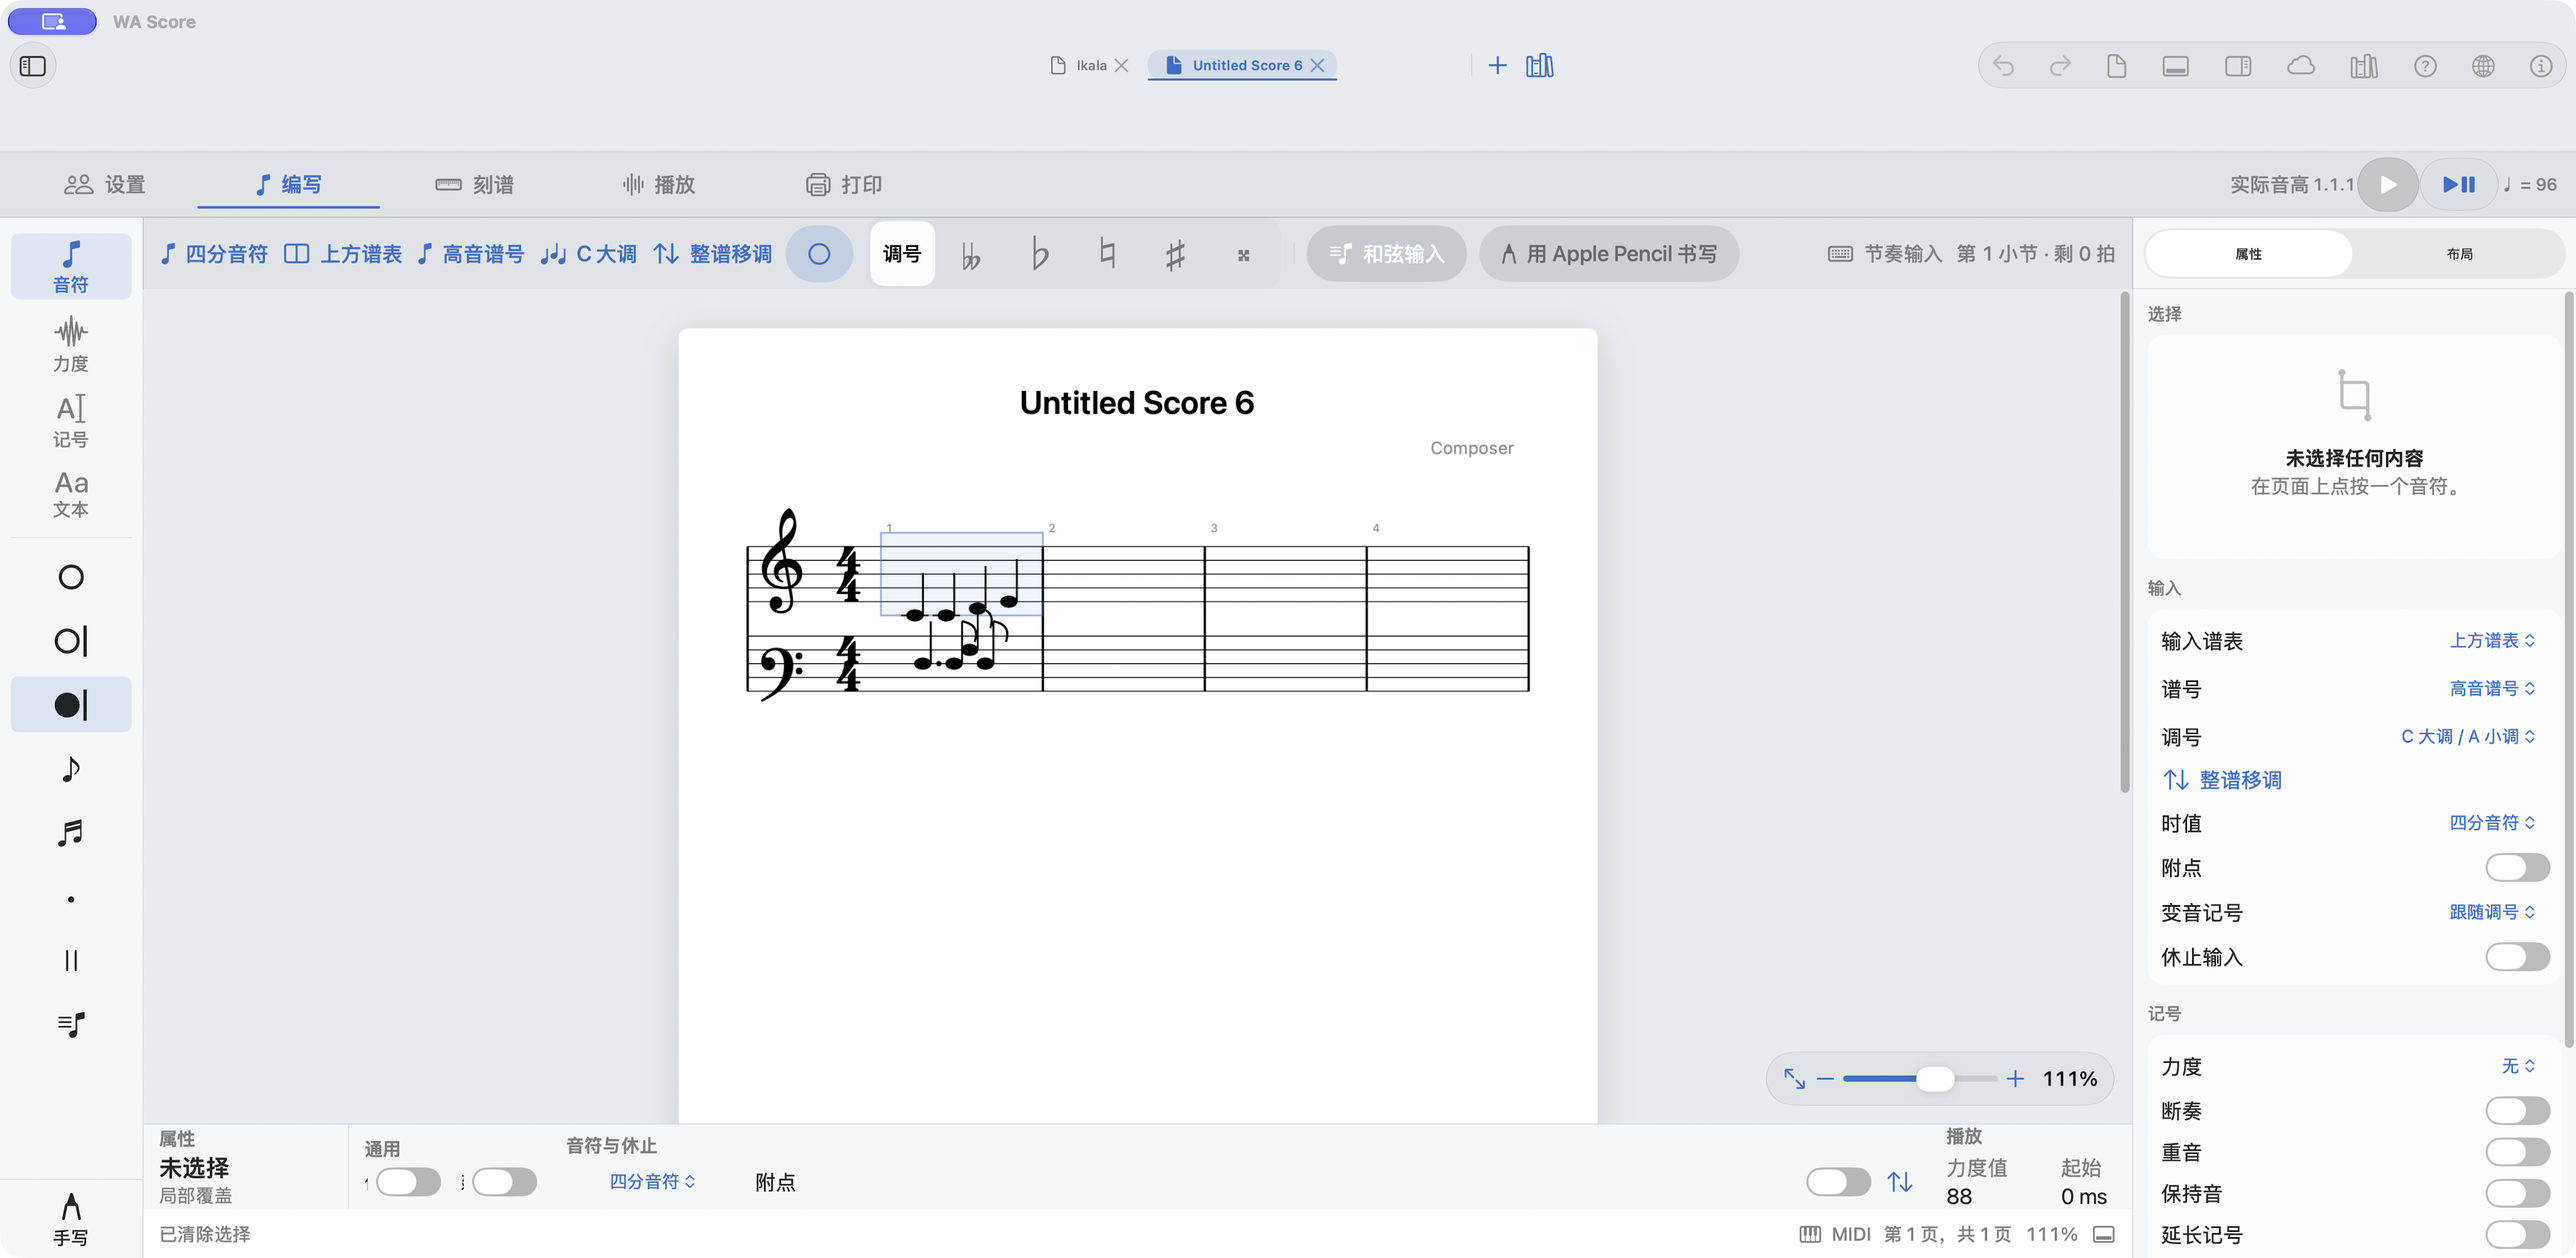
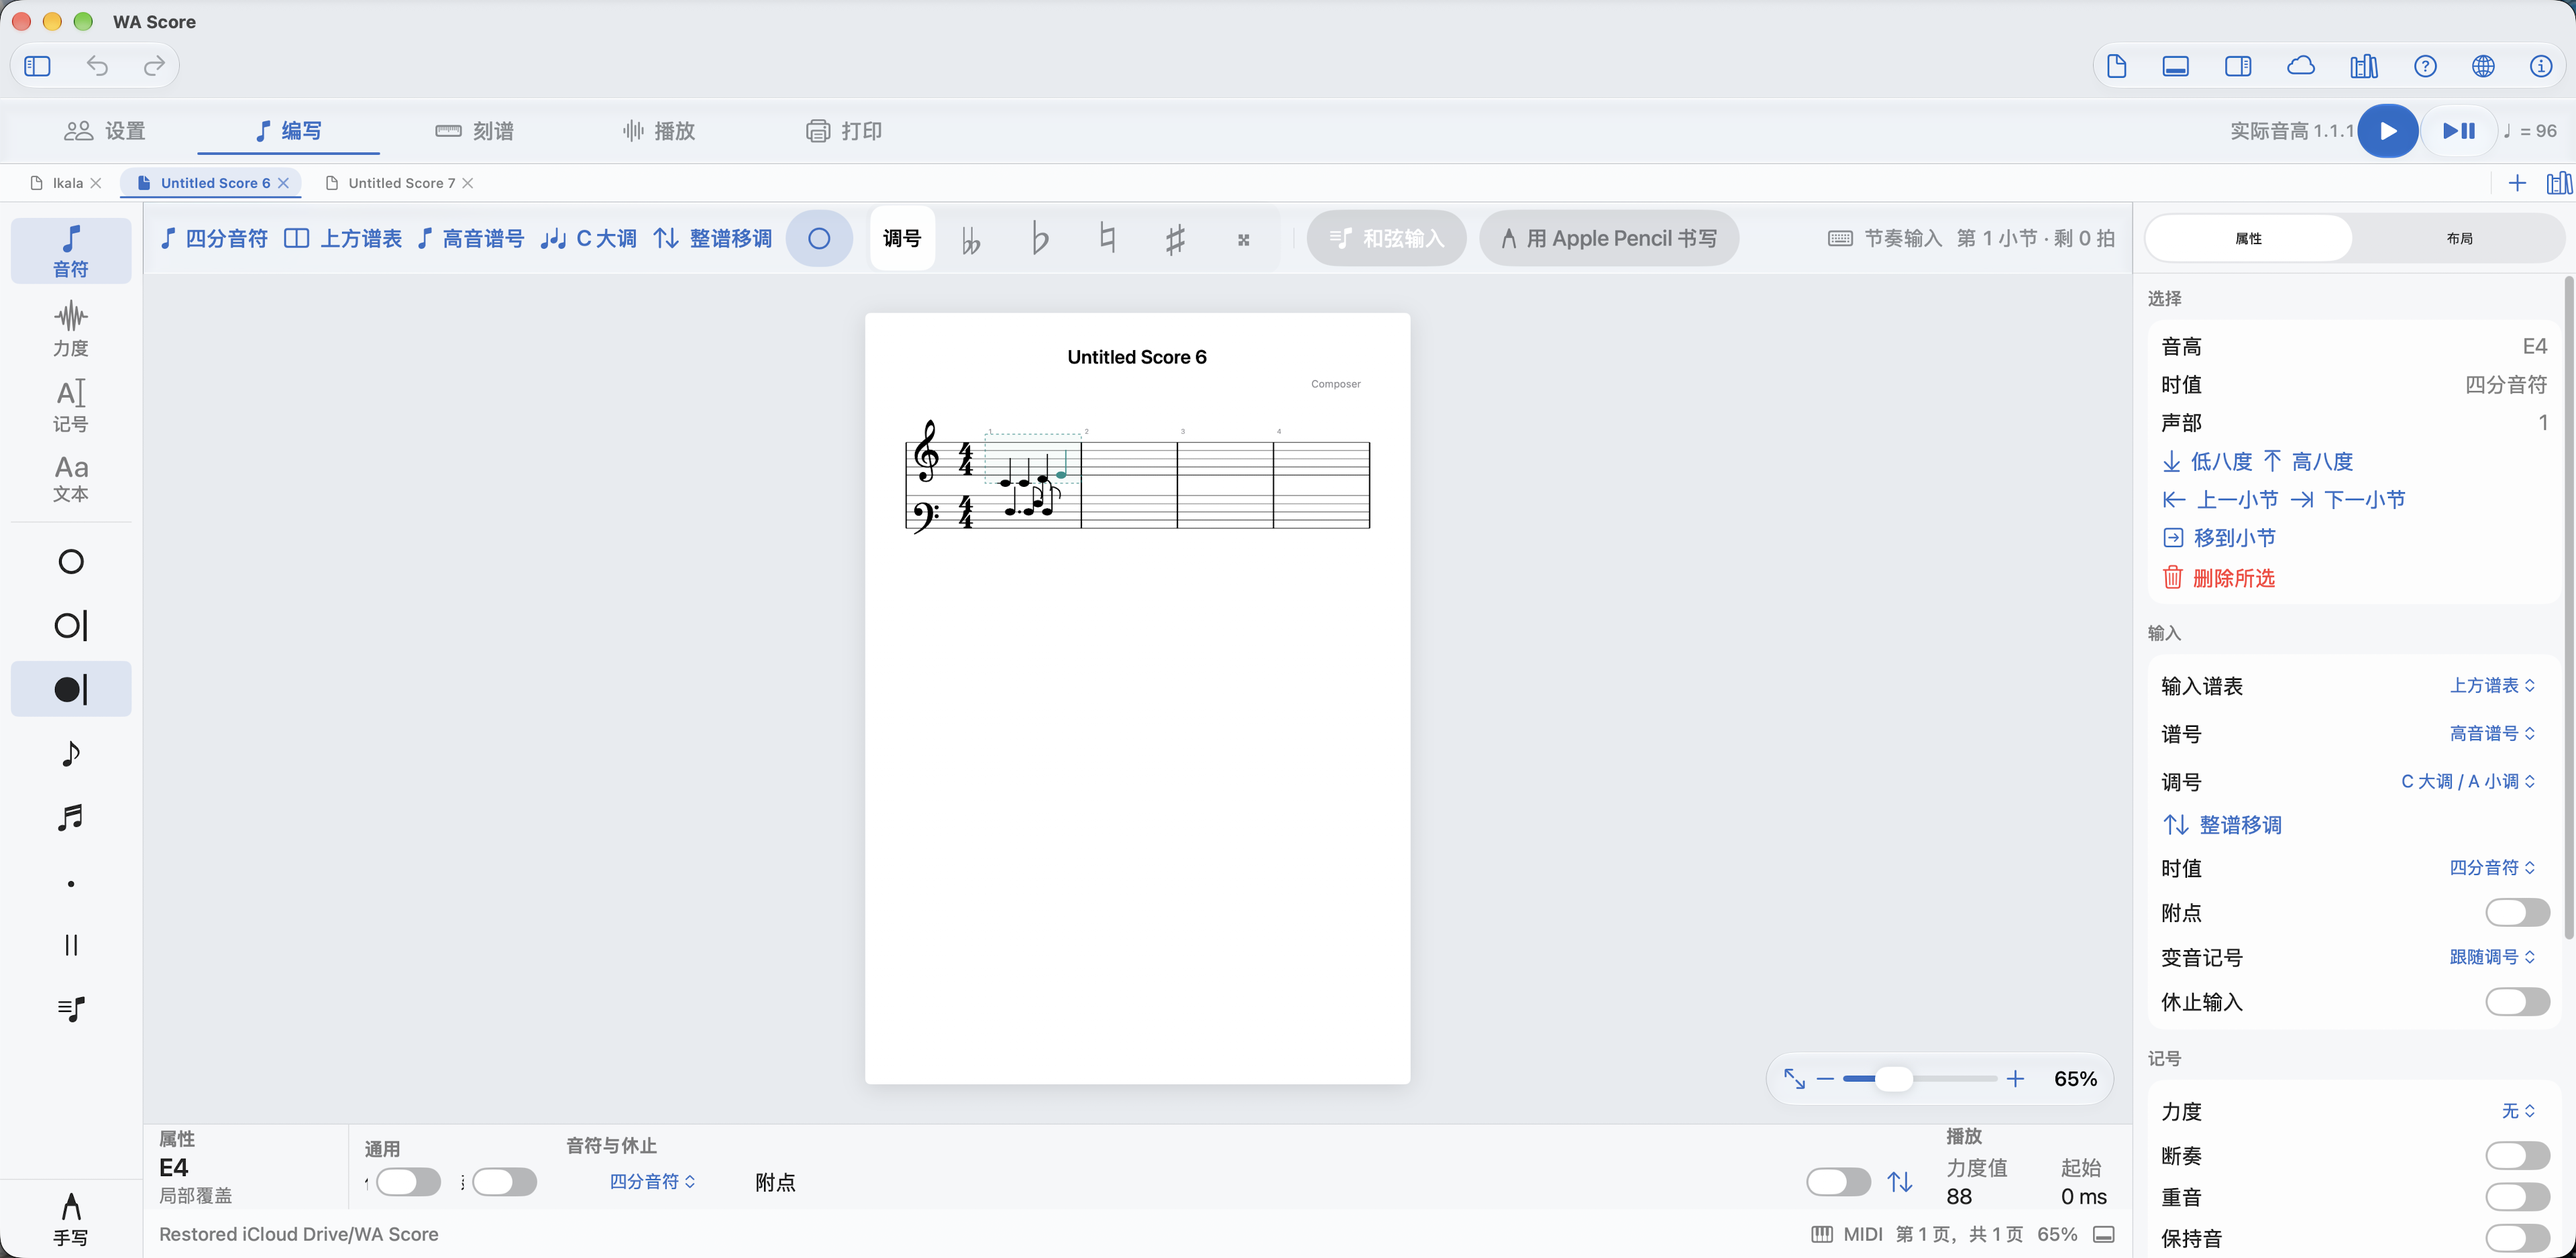
fix: use the real WA Score workspace

diff --git a/styles.css b/styles.css
@@ -121,23 +121,11 @@ html[data-language="en"] .lang-en { display: revert; }
   transform: translate(-50%, -50%);
 }
 .hero-window { position: relative; z-index: 2; width: 760px; overflow: hidden; border: 1px solid #cdd7e5; border-radius: 20px; background: white; box-shadow: 0 38px 90px rgba(24, 65, 130, 0.2); transform: perspective(1200px) rotateY(-5deg) rotateX(1deg); transform-origin: center; }
-.hero-window-bar { height: 32px; display: flex; align-items: center; gap: 6px; padding: 0 11px; background: #f5f7fa; border-bottom: 1px solid #dce3ec; }
-.hero-window-bar i { width: 8px; height: 8px; border-radius: 50%; background: #d1d7df; }
-.hero-window-bar i:first-child { background: #ff6159; }
-.hero-window-bar i:nth-child(2) { background: #ffbd2e; }
-.hero-window-bar i:nth-child(3) { background: #28c941; }
-.hero-window-bar span { margin: 0 auto; padding-right: 42px; color: #69768a; font-size: 10px; font-weight: 650; }
 .hero-window > img { width: 100%; }
 .hero-app-icon { position: absolute; z-index: 3; width: 108px; height: 108px; right: -18px; bottom: 0; border: 8px solid rgba(255, 255, 255, 0.9); border-radius: 30px; box-shadow: 0 20px 50px rgba(32, 82, 215, 0.28); }
 
 .workspace-section { padding: 16px 0 120px; }
 .workspace-frame { border: 1px solid #ced8e6; border-radius: var(--radius); overflow: hidden; background: var(--white); box-shadow: var(--shadow); }
-.window-bar { height: 48px; display: flex; align-items: center; gap: 8px; padding: 0 17px; background: #f5f7fa; border-bottom: 1px solid #dde3ec; }
-.window-bar i { width: 12px; height: 12px; border-radius: 50%; background: #d4d9e0; }
-.window-bar i:first-child { background: #ff6159; }
-.window-bar i:nth-child(2) { background: #ffbd2e; }
-.window-bar i:nth-child(3) { background: #28c941; }
-.window-bar span { margin: 0 auto; padding-right: 56px; color: #66758a; font-size: 13px; font-weight: 650; }
 .workspace-frame img { width: 100%; }
 .artifact-caption { margin: 20px auto 0; text-align: center; color: var(--muted); font-size: 13px; }
 
@@ -232,7 +220,6 @@ html[data-language="en"] .lang-en { display: revert; }
   .hero-window { width: 100%; transform: none; }
   .hero-app-icon { right: 18px; width: 90px; height: 90px; border-radius: 25px; }
   .workspace-section { padding-bottom: 90px; }
-  .window-bar { height: 38px; }
   .recognition-flow { grid-template-columns: 1fr; }
   .flow-arrow { justify-self: center; transform: rotate(90deg); }
   .feature-layout, .ownership { grid-template-columns: 1fr; gap: 60px; }

diff --git a/index.html b/index.html
@@ -80,7 +80,6 @@
 
         <div class="hero-product reveal">
           <div class="hero-window">
-            <div class="hero-window-bar" aria-hidden="true"><i></i><i></i><i></i><span>WA Score</span></div>
             <img
               src="assets/wa-score-workspace.png"
               alt="WA Score real Mac interface showing a piano score in the Write workspace"
@@ -92,17 +91,13 @@
 
       <section class="workspace-section section-shell" id="workspace">
         <div class="workspace-frame reveal">
-          <div class="window-bar" aria-hidden="true">
-            <i></i><i></i><i></i>
-            <span>WA Score</span>
-          </div>
           <img
             src="assets/wa-score-workspace.png"
             alt="WA Score running on Mac with a piano score open in the Write workspace"
           />
         </div>
-        <p class="artifact-caption lang-zh">来自当前 WA Score Mac Catalyst 应用的真实界面；谱面内容为宣传展示。</p>
-        <p class="artifact-caption lang-en">The current WA Score Mac Catalyst interface, shown with a promotional score.</p>
+        <p class="artifact-caption lang-zh">来自当前 WA Score Mac Catalyst 应用的真实界面与演示谱面。</p>
+        <p class="artifact-caption lang-en">The current WA Score Mac Catalyst interface with a live editable score.</p>
       </section>
 
       <section class="handwriting section-shell" id="handwriting">
